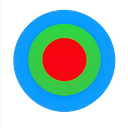
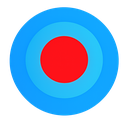
Updates

Changed region(s): [[0.1875, 0.1562, 0.8125, 0.7812], [0.0625, 0.0312, 0.9375, 0.9062]]

diff --git a/index.html b/index.html
@@ -30,8 +30,10 @@
     main { width: 100%; max-width: 880px; }
     h1 { font-size: 28px; font-weight: 700; letter-spacing: -0.01em; }
     .role { color: #9da7b3; margin-top: 6px; font-size: 15px; }
-    .links { margin-top: 28px; display: grid; grid-template-columns: repeat(2, 1fr); gap: 14px; align-items: stretch; }
+    h2.section { margin-top: 34px; font-size: 20px; font-weight: 600; letter-spacing: -0.01em; }
+    .links { margin-top: 16px; display: grid; grid-template-columns: repeat(2, 1fr); gap: 14px; align-items: stretch; }
     .links .wide { grid-column: 1 / -1; }
+    .links .newrow { grid-column: 1; }
     @media (max-width: 560px) { .links { grid-template-columns: 1fr; } }
     a.card {
       display: block;
@@ -58,14 +60,9 @@
     <h1>Oliver Ernster</h1>
     <p class="role">Principal engineer: decision systems, backend architecture and authority design.</p>
 
+    <h2 class="section">Selected Work</h2>
+
     <div class="links">
-      <a class="card" href="https://www.crankthecode.com">
-        <div class="hd">
-          <img class="ic" src="assets/crankthecode.png" alt="" width="34" height="34">
-          <span class="t">Crank the Code</span>
-        </div>
-        <div class="d">The Decision Architecture thesis and writing</div>
-      </a>
       <a class="card" href="https://oernster.github.io/fulcrum/">
         <div class="hd">
           <img class="ic" src="assets/fulcrum.png" alt="" width="34" height="34">
@@ -129,7 +126,21 @@
         </div>
         <div class="d">Automatic colonisation and fleet carrier tracking from your journal</div>
       </a>
-      <a class="card wide" href="https://github.com/oernster">
+      <a class="card" href="https://github.com/oernster/AudioDeck">
+        <div class="hd">
+          <img class="ic" src="assets/audiodeck.png" alt="" width="34" height="34">
+          <span class="t">Audio Deck</span>
+        </div>
+        <div class="d">One-click Windows audio device switching with saved profiles</div>
+      </a>
+      <a class="card newrow" href="https://www.crankthecode.com">
+        <div class="hd">
+          <img class="ic" src="assets/crankthecode.png" alt="" width="34" height="34">
+          <span class="t">Crank the Code</span>
+        </div>
+        <div class="d">The Decision Architecture thesis and writing</div>
+      </a>
+      <a class="card" href="https://github.com/oernster">
         <div class="hd">
           <img class="ic" src="assets/github.svg" alt="" width="34" height="34">
           <span class="t">GitHub</span>